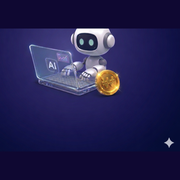
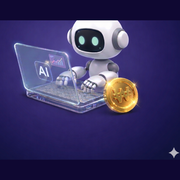
chore: 아이콘 새 이미지로 재생성 + og 정사각 1200x1200
- 새 원본: 미래의 로봇과 지원금AI.png (콘텐츠 64% 차지)
- favicon.ico: 황금 동전 (32×32에서도 또렷)
- apple-touch-icon: 로봇+노트북+동전+AI 글자
- PWA icon-128/192/512 + maskable: 동일
- og-image.png: 1200×1200 정사각 (카카오톡 큰 썸네일 표시)
- layout.tsx OG meta width/height 1200x1200으로 수정

diff --git a/frontend/src/app/layout.tsx b/frontend/src/app/layout.tsx
@@ -34,8 +34,8 @@ export const metadata: Metadata = {
     description: "17,000+ 정부 지원금 공고를 AI가 실시간 분석. 내 조건에 딱 맞는 보조금·정책자금을 자동 매칭. 무료!",
     images: [{
       url: "/og-image.png",
-      width: 1032,
-      height: 1024,
+      width: 1200,
+      height: 1200,
       alt: "지원금AI 로고",
     }],
   },
